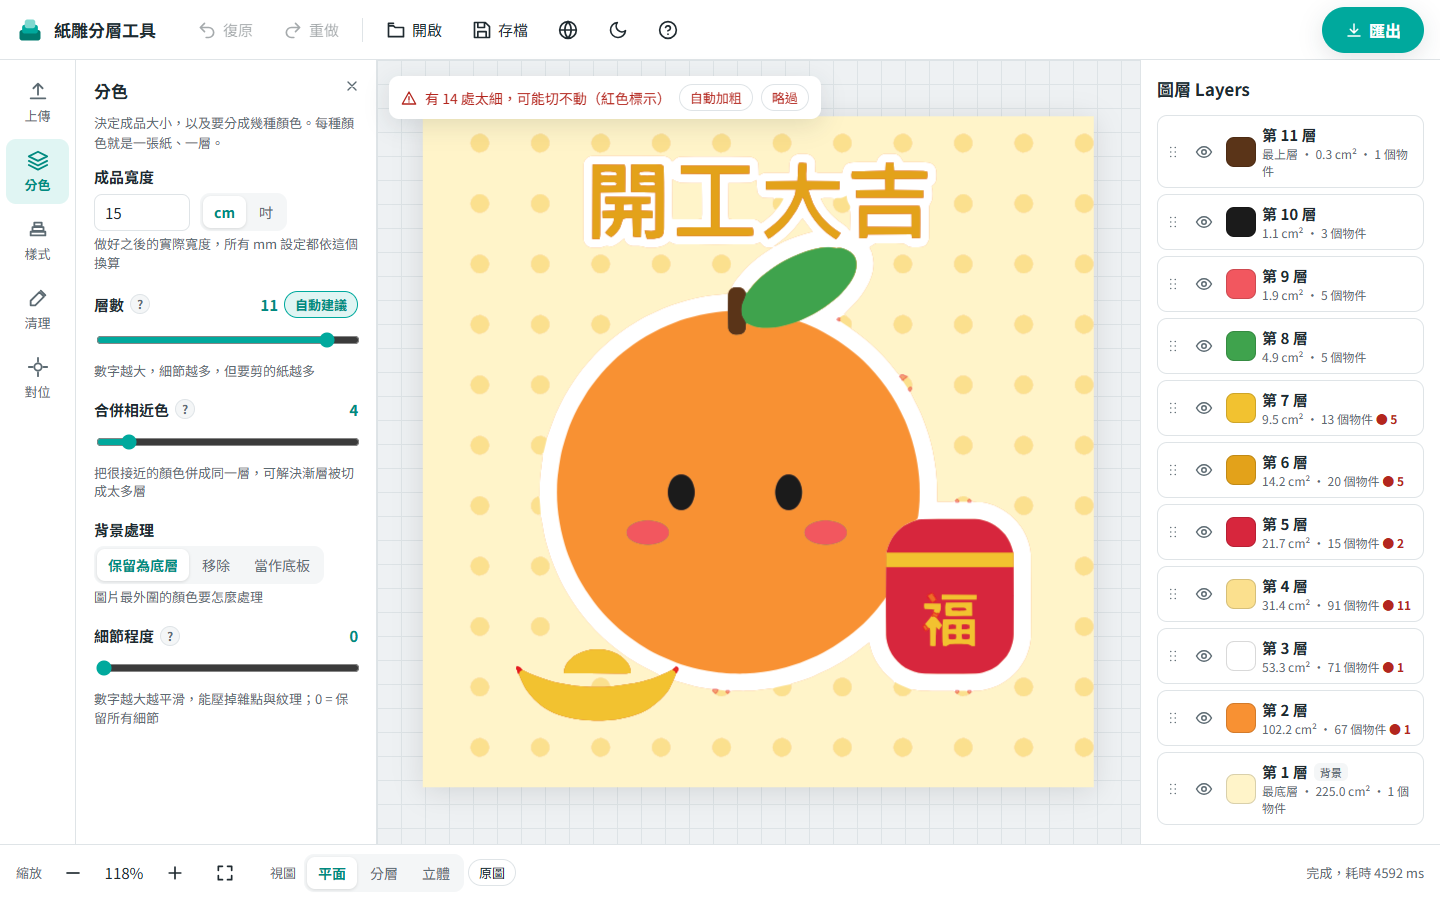
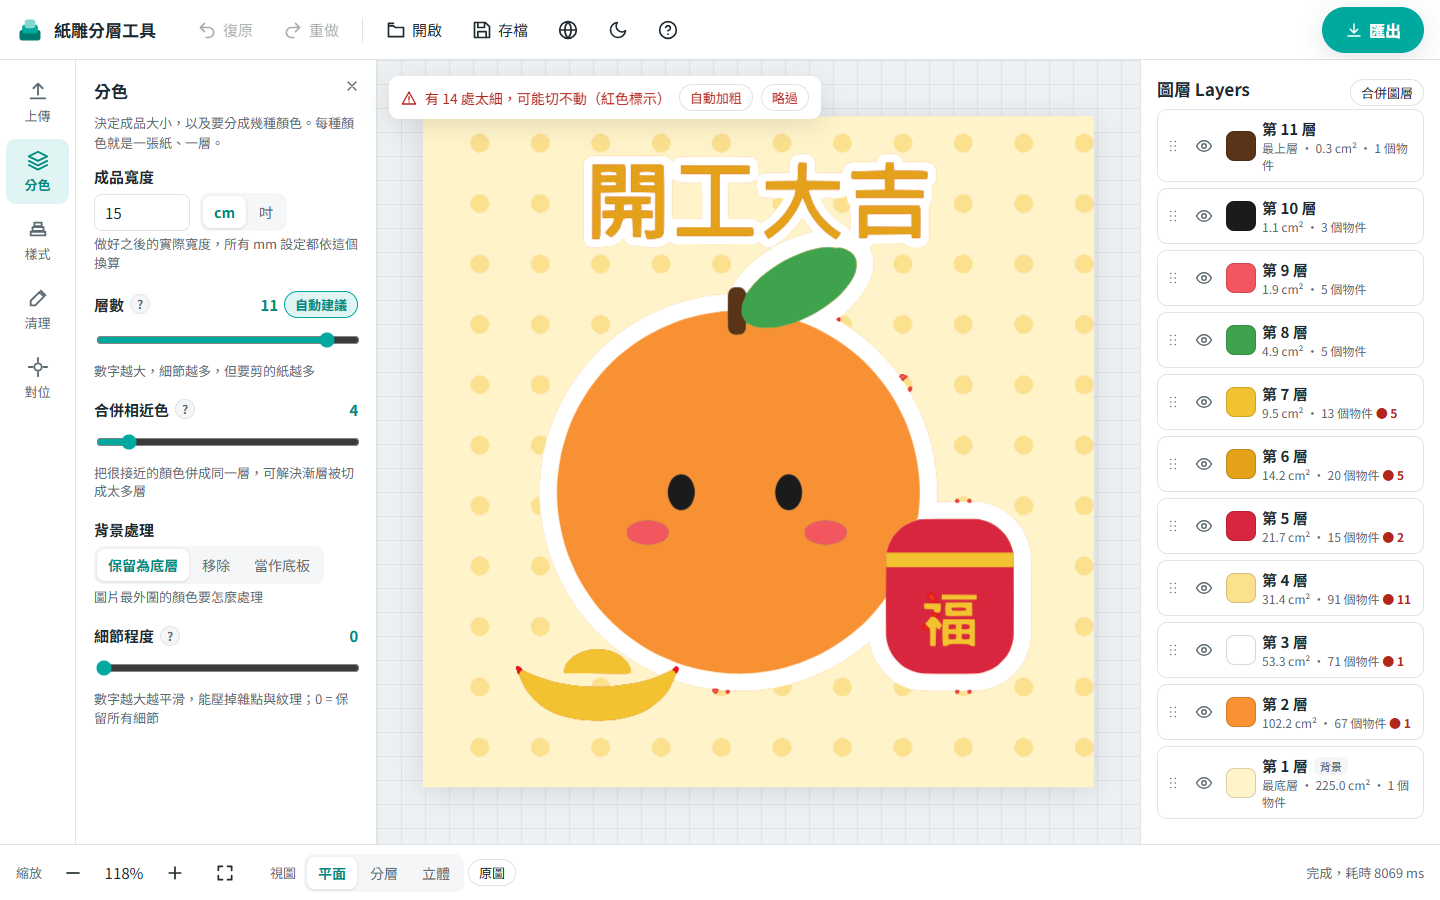
Let users merge chosen color layers
- Layer panel "Merge layers" mode: tick two or more layers and merge them into one (keeps the lowest layer's color and position)
- Merged layers show a "N colors" tag and can be split back
- Pipeline relabels merged colors after cleanup; merge chains resolve to the final target, cycles are safe
- Merges reset when the palette is recomputed, like custom order

Changed region(s): [[0.8125, 0.1244, 1.0, 0.9022], [0.9375, 0.0933, 1.0, 0.1244], [0.9375, 0.9644, 0.9688, 0.9956]]

diff --git a/src/app/LayerPanel.tsx b/src/app/LayerPanel.tsx
@@ -19,6 +19,9 @@ interface Props {
   globalHoles: boolean;
   /** 全域泡棉厚度（預覽） */
   foamMm: number;
+  /** 合併圖層（由下到上的 id，第一個為目標） */
+  onMerge: (ids: number[]) => void;
+  onUnmerge: (id: number) => void;
 }
 
 const isOverridden = (o: LayerOpts | undefined, foamMm: number | undefined) =>
@@ -34,7 +37,7 @@ function Override({ onReset }: { onReset: () => void }) {
   );
 }
 
-export function LayerPanel({ layers, selected, onSelect, onMeta, onReorder, opts, onOpts, globalHoles, foamMm }: Props) {
+export function LayerPanel({ layers, selected, onSelect, onMeta, onReorder, opts, onOpts, globalHoles, foamMm, onMerge, onUnmerge }: Props) {
   const t = useT();
   const [dragId, setDragId] = useState<number | null>(null);
   const [overId, setOverId] = useState<number | null>(null);
@@ -42,6 +45,12 @@ export function LayerPanel({ layers, selected, onSelect, onMeta, onReorder, opts
   const top = [...layers].reverse(); // 面板由上到下顯示（同 Design Space）
   const sel = layers.find((l) => l.layer.id === selected);
   const so: LayerOpts = (sel && opts[sel.layer.id]) || {};
+  // 合併模式：勾選兩層以上合併成一層
+  const [merging, setMerging] = useState(false);
+  const [checked, setChecked] = useState<Set<number>>(new Set());
+  const toggle = (id: number) => setChecked((c) => { const n = new Set(c); if (n.has(id)) n.delete(id); else n.add(id); return n; });
+  const picked = layers.filter((l) => checked.has(l.layer.id)); // 由下到上
+  const endMerge = () => { setMerging(false); setChecked(new Set()); };
 
   const drop = (targetId: number) => {
     if (dragId == null || dragId === targetId) return;
@@ -60,7 +69,23 @@ export function LayerPanel({ layers, selected, onSelect, onMeta, onReorder, opts
 
   return (
     <aside className="right" aria-label={t('layersTitle')}>
-      <h2>{t('layersTitle')}</h2>
+      <div className="layers-head">
+        <h2>{t('layersTitle')}</h2>
+        {layers.length > 1 && !merging && (
+          <button type="button" className="chip" onClick={() => { setMerging(true); onSelect(null); }}>{t('mergeStart')}</button>
+        )}
+      </div>
+      {merging && (
+        <div className="merge-bar">
+          <p>{picked.length < 2 ? t('mergeHint') : t('mergeInto', { name: picked[0].name })}</p>
+          <div className="btn-row">
+            <button type="button" className="btn primary" disabled={picked.length < 2} onClick={() => { onMerge(picked.map((l) => l.layer.id)); endMerge(); }}>
+              {t('mergeDo', { n: picked.length })}
+            </button>
+            <button type="button" className="btn" onClick={endMerge}>{t('mergeCancel')}</button>
+          </div>
+        </div>
+      )}
       {!layers.length && <p className="note">{t('noLayers')}</p>}
       <ul className="layer-list">
         {top.map((l) => {
@@ -69,21 +94,25 @@ export function LayerPanel({ layers, selected, onSelect, onMeta, onReorder, opts
           return (
             <li
               key={l.layer.id}
-              className={'layer-row' + (isSel ? ' sel' : '') + (overId === l.layer.id ? ' over' : '') + (l.visible ? '' : ' hidden')}
-              draggable
+              className={'layer-row' + (isSel ? ' sel' : '') + (merging && checked.has(l.layer.id) ? ' checked' : '') + (overId === l.layer.id ? ' over' : '') + (l.visible ? '' : ' hidden')}
+              draggable={!merging}
               onDragStart={(e) => { setDragId(l.layer.id); e.dataTransfer.effectAllowed = 'move'; e.dataTransfer.setData('text/plain', String(l.layer.id)); }}
               onDragOver={(e) => { e.preventDefault(); setOverId(l.layer.id); }}
               onDragLeave={() => setOverId(null)}
               onDrop={(e) => { e.preventDefault(); drop(l.layer.id); setOverId(null); setDragId(null); }}
               onDragEnd={() => { setDragId(null); setOverId(null); }}
-              onClick={() => onSelect(isSel ? null : l.layer.id)}
+              onClick={() => (merging ? toggle(l.layer.id) : onSelect(isSel ? null : l.layer.id))}
               onKeyDown={(e) => {
                 if (e.altKey && e.key === 'ArrowUp') { e.preventDefault(); move(l.layer.id, 1); }
                 if (e.altKey && e.key === 'ArrowDown') { e.preventDefault(); move(l.layer.id, -1); }
               }}
               tabIndex={0}
             >
-              <span className="grip" title={t('dragHint')}><Icon name="grip" size={18} /></span>
+              {merging ? (
+                <input type="checkbox" className="merge-check" checked={checked.has(l.layer.id)} aria-label={t('mergeStart')} onClick={(e) => e.stopPropagation()} onChange={() => toggle(l.layer.id)} />
+              ) : (
+                <span className="grip" title={t('dragHint')}><Icon name="grip" size={18} /></span>
+              )}
               <button
                 type="button"
                 className="icon-btn"
@@ -111,6 +140,7 @@ export function LayerPanel({ layers, selected, onSelect, onMeta, onReorder, opts
                     {l.name}
                     {l.layer.isBg && <em className="tag">{t('bgTag')}</em>}
                     {l.layer.foam && <em className="tag foam">{t('foamTag')}</em>}
+                    {l.layer.merged.length > 0 && <em className="tag merged">{t('mergedTag', { n: l.layer.merged.length + 1 })}</em>}
                     {isOverridden(opts[l.layer.id], l.foamMm) && <span className="ovr-dot" title={t('overridden')} aria-label={t('overridden')} />}
                   </span>
                 )}
@@ -131,6 +161,12 @@ export function LayerPanel({ layers, selected, onSelect, onMeta, onReorder, opts
             {sel.color} · RGB({hexToRgb(sel.color).join(', ')})
           </p>
           <p className="ctrl-help">{t('colorNote')}</p>
+          {sel.layer.merged.length > 0 && (
+            <div className="merged-note">
+              <span>{t('mergedNote', { n: sel.layer.merged.length + 1 })}</span>
+              <button type="button" className="chip" onClick={() => onUnmerge(sel.layer.id)}>{t('unmerge')}</button>
+            </div>
+          )}
           <p className="ctrl-help">{t('overrideHint')}</p>
           <Slider
             label={t('extra')}

diff --git a/src/worker/pipeline.ts b/src/worker/pipeline.ts
@@ -74,9 +74,17 @@ export class Pipeline {
     // 邊緣平滑度高時，色塊邊界先用較強的多數決抹平凹凸（會犧牲 1–2px 的細線）
     const strong = p.smooth >= 7;
     const minPx = p.minAreaMm2 * pxPerMm * pxPerMm;
-    const labels = this.memo(`clean:${res}|${quantKey}|${passes}|${strong}|${minPx.toFixed(1)}`, () =>
+    const cleaned = this.memo(`clean:${res}|${quantKey}|${passes}|${strong}|${minPx.toFixed(1)}`, () =>
       absorbSmall(modeFilter(raw, w, h, passes, nL, strong), w, h, minPx, nL, palette.map((c) => c.lab)),
     );
+    // 使用者指定的合併：把來源顏色的像素改歸目標圖層（目標保留自己的顏色）
+    const labels = applyMerges(cleaned, p.merges, nL);
+    const mergedInto = new Map<number, number[]>();
+    for (const [from, to] of Object.entries(p.merges ?? {})) {
+      const f = Number(from), t = resolveMerge(p.merges, to);
+      if (f === t || f >= nL || t >= nL) continue;
+      mergedInto.set(t, [...(mergedInto.get(t) ?? []), f]);
+    }
 
     const counts = new Int32Array(nL);
     for (let i = 0; i < labels.length; i++) if (labels[i] >= 0) counts[labels[i]]++;
@@ -182,6 +190,7 @@ export class Pipeline {
         foamAuto,
         foamD,
         isBg: id === bgId,
+        merged: mergedInto.get(id) ?? [],
       });
     }
 
@@ -342,5 +351,28 @@ export function pickFoam(order: number[], area: number[], depth: Depth): Set<num
   out.add(order[subj]);
   const topStart = order.length - Math.max(1, Math.round((order.length - 1) / 3));
   for (let i = Math.max(1, topStart); i < order.length; i++) if (i !== subj && area[i] < area[subj] * 0.25) out.add(order[i]);
+  return out;
+}
+
+/** 沿著合併鏈找到最終的目標圖層（防止循環） */
+export function resolveMerge(merges: Record<number, number> | undefined, id: number): number {
+  let cur = Number(id);
+  for (let i = 0; i < 64 && merges && merges[cur] != null && merges[cur] !== cur; i++) cur = merges[cur];
+  return cur;
+}
+
+/** 依使用者指定的合併重新標記像素；沒有合併時直接回傳原陣列 */
+export function applyMerges(labels: Int16Array, merges: Record<number, number> | undefined, nL: number): Int16Array {
+  if (!merges || !Object.keys(merges).length) return labels;
+  const map = new Int16Array(nL);
+  let any = false;
+  for (let i = 0; i < nL; i++) {
+    const t = resolveMerge(merges, i);
+    map[i] = t >= 0 && t < nL ? t : i;
+    if (map[i] !== i) any = true;
+  }
+  if (!any) return labels;
+  const out = new Int16Array(labels.length);
+  for (let i = 0; i < labels.length; i++) out[i] = labels[i] >= 0 ? map[labels[i]] : labels[i];
   return out;
 }

diff --git a/src/app/App.tsx b/src/app/App.tsx
@@ -118,7 +118,7 @@ export function App() {
     (patch: Partial<Params>) => {
       setDoc((d) => {
         const quant = QUANT_KEYS.some((k) => k in patch && patch[k] !== d.params[k]);
-        const params = { ...d.params, ...patch, ...(quant ? { order: null, layerOpts: {} } : {}) };
+        const params = { ...d.params, ...patch, ...(quant ? { order: null, layerOpts: {}, merges: {} } : {}) };
         return { ...d, params, meta: quant ? {} : d.meta };
       });
       if (QUANT_KEYS.some((k) => k in patch)) setSelected(null);
@@ -214,6 +214,22 @@ export function App() {
   const onMeta = (id: number, patch: LayerMeta) => setDoc((d) => ({ ...d, meta: { ...d.meta, [id]: { ...d.meta[id], ...patch } } }));
   const onOpts = (id: number, patch: LayerOpts) =>
     setParams({ layerOpts: { ...doc.params.layerOpts, [id]: { ...doc.params.layerOpts[id], ...patch } } });
+
+  // 合併圖層：其餘各層併入第一個（最下面的）圖層，沿用它的顏色
+  const onMerge = (ids: number[]) => {
+    const [target, ...rest] = ids;
+    const merges: Record<number, number> = { ...doc.params.merges };
+    for (const id of rest) {
+      merges[id] = target;
+      for (const k of Object.keys(merges)) if (merges[Number(k)] === id) merges[Number(k)] = target;
+    }
+    setParams({ merges });
+    setSelected(target);
+  };
+  const onUnmerge = (target: number) => {
+    const merges = Object.fromEntries(Object.entries(doc.params.merges).filter(([, v]) => v !== target));
+    setParams({ merges });
+  };
 
   // 累加模式下同一處過細會出現在多層，以子路徑去重後計數
   const thinTotal = useMemo(() => new Set(result?.layers.flatMap((l) => l.thinD.split('M').filter(Boolean)) ?? []).size, [result]);
@@ -321,6 +337,8 @@ export function App() {
           opts={doc.params.layerOpts}
           onOpts={onOpts}
           globalHoles={doc.params.keepHoles}
+          onMerge={onMerge}
+          onUnmerge={onUnmerge}
           foamMm={gap}
         />
 

diff --git a/tests/acceptance.test.ts b/tests/acceptance.test.ts
@@ -283,3 +283,31 @@ describe('立體感：全域預設 + 逐層覆寫', () => {
     expect(back.areaMm2).toBeCloseTo(filled.areaMm2, 3);
   });
 });
+
+describe('自行指定合併圖層', () => {
+  const img = makeImage(300, 300, (x, y) => {
+    const d = Math.hypot(x - 150, y - 150);
+    return d < 20 ? [20, 20, 20] : d < 60 ? [200, 40, 40] : d < 110 ? [240, 130, 30] : [255, 244, 200];
+  });
+  const p = { ...defaultParams, mode: 'independent' as const, extendMm: 0 };
+
+  it('合併後少一層，面積相加、沿用目標顏色，並記錄來源', () => {
+    const base = run(img, p);
+    expect(base.layers.length).toBe(4);
+    const red = base.layers.find((l) => l.hex.startsWith('#C8'))!;
+    const orange = base.layers.find((l) => l.hex.startsWith('#F0'))!;
+    const merged = run(img, { ...p, merges: { [red.id]: orange.id } });
+    expect(merged.layers.length).toBe(3);
+    const o = merged.layers.find((l) => l.id === orange.id)!;
+    expect(o.hex).toBe(orange.hex);
+    expect(o.merged).toEqual([red.id]);
+    expect(o.areaMm2).toBeCloseTo(orange.areaMm2 + red.areaMm2, -1);
+  });
+
+  it('合併鏈會一路併到最終目標，循環不會當機', async () => {
+    const { resolveMerge } = await import('../src/worker/pipeline');
+    expect(resolveMerge({ 1: 2, 2: 3 }, 1)).toBe(3);
+    expect(resolveMerge({ 1: 2, 2: 1 }, 1)).toBeTypeOf('number');
+    expect(run(img, { ...p, merges: { 0: 1, 1: 0 } }).layers.length).toBeGreaterThan(0);
+  });
+});

diff --git a/src/app/styles.css b/src/app/styles.css
@@ -289,3 +289,12 @@ th { color: var(--text-2); font-weight: 600; font-size: 13px; }
 @media (max-width: 760px) { .sg-grid { grid-template-columns: 1fr 1fr; } }
 .card .card-now { color: var(--primary); font-weight: 600; grid-column: 2; }
 .panel-sub { margin: -4px 0 14px; color: var(--text-2); font-size: 13px; line-height: 1.5; }
+.layers-head { display: flex; align-items: center; justify-content: space-between; gap: 8px; }
+.layers-head h2 { margin-bottom: 8px; }
+.merge-bar { background: var(--primary-soft); border-radius: var(--radius); padding: 10px 12px; margin-bottom: 10px; font-size: 13px; }
+.merge-bar p { margin: 0 0 4px; }
+.merge-bar .btn-row { margin: 4px 0 0; }
+.merge-check { width: 18px; height: 18px; accent-color: var(--primary); margin: 0 2px; }
+.layer-row.checked { border-color: var(--primary); background: var(--primary-soft); }
+.tag.merged { background: #e3ecff; color: #2a4a9a; }
+.merged-note { display: flex; align-items: center; gap: 8px; font-size: 13px; margin: 6px 0; }

diff --git a/src/i18n/en.ts b/src/i18n/en.ts
@@ -65,6 +65,10 @@ export const en: Dict = {
   holesRow: 'Cut-outs', holesKeep: 'Keep', holesFill: 'Fill',
   layerFoam: 'Foam height for this layer', layerFoamHelp: 'Affects the 3D preview only',
   colorNote: 'Color only changes the preview and suggested paper, not the cut shape',
+  mergeStart: 'Merge layers', mergeHint: 'Tick the colors to combine into one layer (2 or more).',
+  mergeInto: 'They become one layer with the color and position of “{name}”; you can recolor it afterwards.',
+  mergeDo: 'Merge {n} layers', mergeCancel: 'Cancel',
+  mergedTag: '{n} colors', mergedNote: 'This layer combines {n} colors.', unmerge: 'Split',
   noLayers: 'Layers appear here after you upload an image',
   zoom: 'Zoom', fit: 'Fit', view: 'View', vFlat: 'Flat', vLayers: 'Layers', vStack: '3D', original: 'Original',
   gap: 'Foam thickness', dragRotate: 'Drag to rotate',

diff --git a/src/i18n/zh-TW.ts b/src/i18n/zh-TW.ts
@@ -70,6 +70,10 @@ export const zhTW = {
   holesRow: '鏤空', holesKeep: '保留鏤空', holesFill: '填滿',
   layerFoam: '本層泡棉厚度', layerFoamHelp: '只影響立體預覽',
   colorNote: '改色只改預覽與建議紙色，不會改變切割形狀',
+  mergeStart: '合併圖層', mergeHint: '勾選要合併成同一層的顏色（2 層以上）。',
+  mergeInto: '合併後是一層，使用「{name}」的顏色與位置，之後可再點色塊改色。',
+  mergeDo: '合併 {n} 層', mergeCancel: '取消',
+  mergedTag: '合併 {n} 色', mergedNote: '這一層由 {n} 種顏色合併而成。', unmerge: '拆開',
   noLayers: '上傳圖片後，這裡會出現每一層',
   // 底部
   zoom: '縮放', fit: '符合視窗', view: '視圖', vFlat: '平面', vLayers: '分層', vStack: '立體', original: '原圖',

diff --git a/src/lib/types.ts b/src/lib/types.ts
@@ -42,6 +42,8 @@ export interface Params {
   /** 泡棉墊片內縮量 (mm) */
   foamInsetMm: number;
   layerOpts: Record<number, LayerOpts>;
+  /** 使用者指定的合併：來源圖層 id → 目標圖層 id */
+  merges: Record<number, number>;
 }
 
 export const defaultParams: Params = {
@@ -64,6 +66,7 @@ export const defaultParams: Params = {
   foamOut: true,
   foamInsetMm: 1,
   layerOpts: {},
+  merges: {},
 };
 
 export interface LayerResult {
@@ -84,6 +87,8 @@ export interface LayerResult {
   /** 泡棉墊片輪廓（墊泡棉且開啟墊片輸出時才有） */
   foamD: string;
   isBg: boolean;
+  /** 被使用者合併進這一層的其他圖層 id */
+  merged: number[];
 }
 
 export interface PipelineResult {

diff --git a/README.md b/README.md
@@ -21,7 +21,7 @@
    | ② 樣式 | **作品樣式**四選一，疊層方式、泡棉與鏤空一起設定好：平貼（累加、不墊泡棉）/ 輕微立體（累加、主角與上方小細節墊泡棉）/ 強烈立體（累加、除最底層外每層墊泡棉）/ 鏤空剪紙（每層只剪自己的顏色、保留鏤空、不墊泡棉）。選中的卡片會顯示目前有幾層墊泡棉；按「ⓘ 樣式說明」會開啟四種樣式的示意圖（上排是完成後的斜角立體圖，下排是側面剖面，標出紙、泡棉與鏤空處），點選任一種即可套用。另有自動排序（預設面積大→小，也可選亮→暗）；進階設定只有一個滑桿：鏤空剪紙時是向外延伸量，其他樣式是泡棉墊片內縮量（預設 1 mm）。 |
    | ③ 清理（選用） | 最小碎片（mm²）、填補小洞、**邊緣平滑度**（邊緣有不規則凹凸時調高，尖角會保留）、最小可切寬度；過細區域以**紅色閃爍**標示，可選「略過 / 自動加粗 / 移除」 |
    | ④ 對位（選用） | 四角對位記號（預設比照 Cricut 的 **L 型角**，也可選圓孔 / 十字）、邊距、大小、層編號 |
-4. 右側圖層面板：顯示 / 隱藏、點色塊改色、雙擊改名、拖曳排序（或選取後 `Alt+↑/↓`）。選取某層時其他層會淡化，並可**覆寫**該層的外擴、鏤空（保留 / 填滿）、泡棉（平貼 / 墊泡棉）與預覽用的泡棉厚度。每項預設跟隨全域設定，改過的項目標示「● 已覆寫」（圖層列表也會出現橘色小圓點），可按「還原為全域」。
+4. 右側圖層面板：顯示 / 隱藏、點色塊改色、雙擊改名、拖曳排序（或選取後 `Alt+↑/↓`）。按「**合併圖層**」可勾選兩層以上合併成同一層（使用最下面那層的顏色與位置，之後可再改色）；合併後的圖層標示「合併 N 色」，選取後可按「拆開」還原。選取某層時其他層會淡化，並可**覆寫**該層的外擴、鏤空（保留 / 填滿）、泡棉（平貼 / 墊泡棉）與預覽用的泡棉厚度。每項預設跟隨全域設定，改過的項目標示「● 已覆寫」（圖層列表也會出現橘色小圓點），可按「還原為全域」。
 5. 底部切換**平面 / 分層 / 立體**檢視；立體檢視可拖曳旋轉，並調整全域泡棉厚度；只有墊泡棉的層會被墊高。
 6. 按右上角「**匯出**」選擇匯出方式並下載：
    - **純切割（建議）**：預設下載**單一多圖層 SVG** `artwork.svg`。所有層在同一個檔案、每層一個 `<g id="layer-01">`、填色互不相同、座標原點一致。兩層顏色相同時（例如手動改色），匯出時會自動把後面那層微調 1 個 RGB 值並在面板上警告，避免 Design Space 把它們併成同一層。有墊泡棉的層另外可下載 `foam-pads.svg`（全部墊片一個檔，灰階各差 1）。
